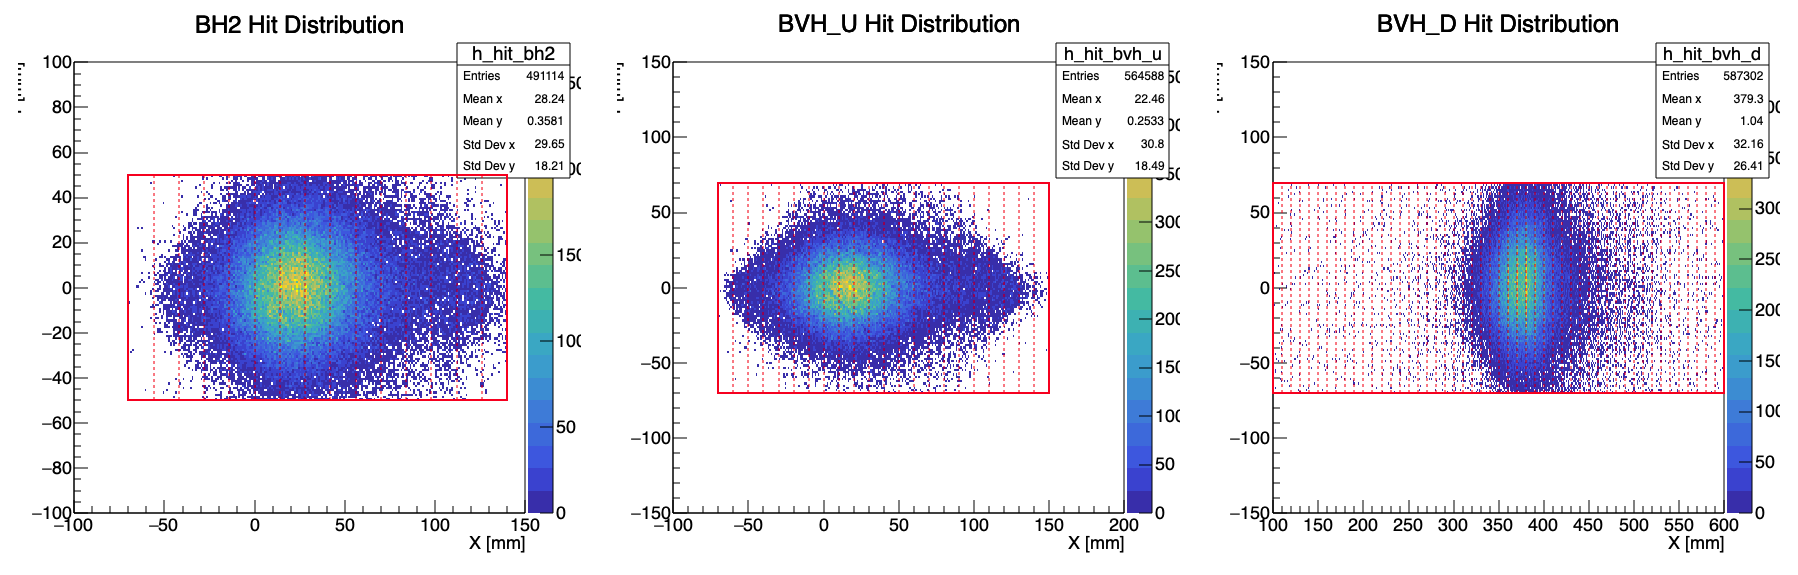
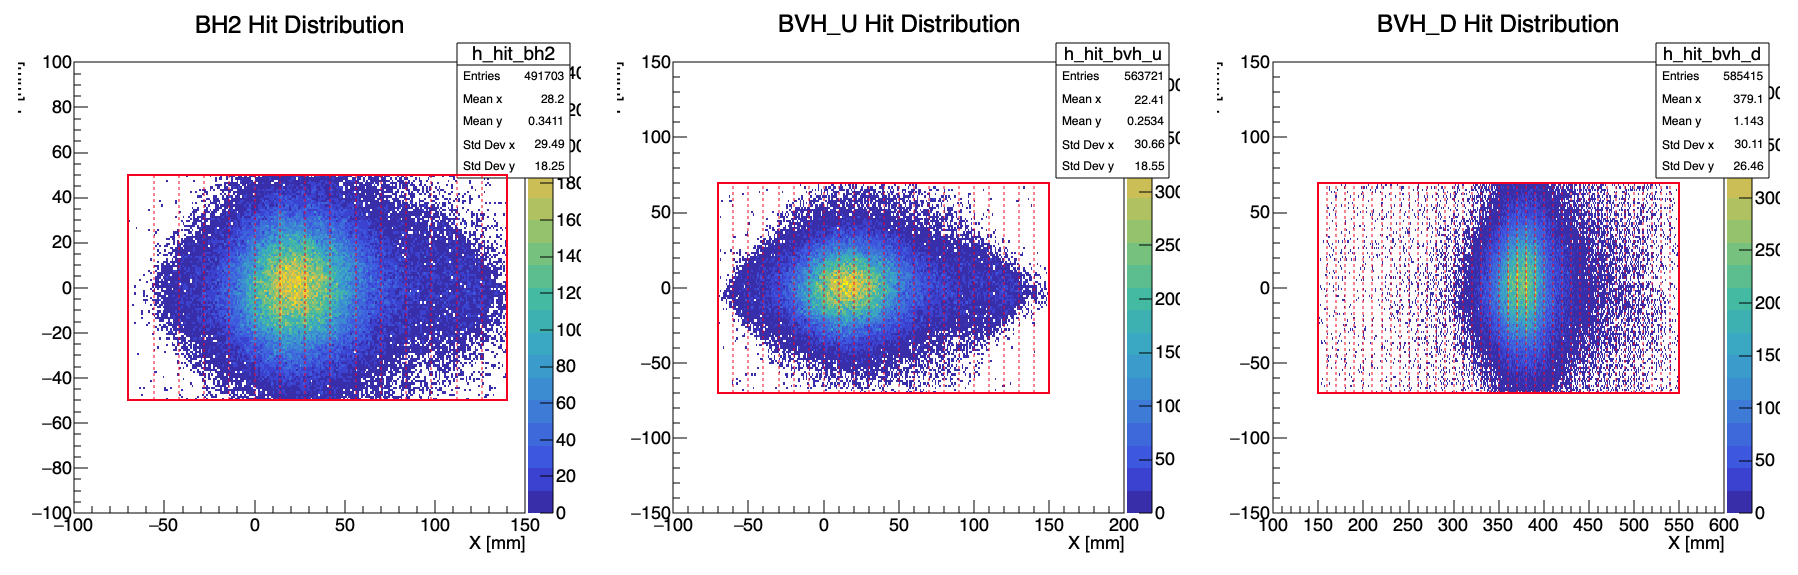
BVH_D po

diff --git a/root/BVH_3D.C b/root/BVH_3D.C
@@ -34,11 +34,14 @@
 #include <algorithm>
 #include <iostream>
 #include <iomanip>
+#include "TInterpreter.h"
+#include "TSystem.h"
+
 
 // -------- Detector Segmentation --------
 static const int N_BH2  = 15; // 0..14
 static const int N_BVHU = 22; // 0..21
-static const int N_BVHD = 32; // 0..31
+static const int N_BVHD = 40; // 0..31
 
 // -------- Helper: unique segment indices passing e-dep cut --------
 static inline void get_unique_hits(const std::vector<TParticle>* v,
@@ -59,12 +62,15 @@ static inline void get_unique_hits(const std::vector<TParticle>* v,
 }
 
 // ================== Main Analysis Function ==================
-void BVH_3D(const char* fname = "E45_BVH4.root",
+void BVH_3D(const char* fname = "E45_segment_40.root",
             double ecutBH2MeV = 0.10,
             double ecutUMeV   = 0.04,
             double ecutDMeV   = 0.04,
             int    event_threshold = 1)
 {
+    gSystem->Load("libPhysics");  // TParticle이 있는 라이브러리
+gInterpreter->GenerateDictionary("vector<TParticle>", "TParticle.h;vector");
+
   // 1) Open file and TTree
   TFile* f = TFile::Open(fname, "READ");
   if(!f || f->IsZombie()){ std::cerr << "[Error] Cannot open file: " << fname << std::endl; return; }
@@ -280,6 +286,6 @@ void BVH_3D(const char* fname = "E45_BVH4.root",
 // ================== Convenience wrapper ==================
 void run_analysis() {
   int event_threshold = 1; // (1) change here to highlight bins >=300 counts
-  BVH_3D("E45_BVH4.root", 0.10, 0.04, 0.04, event_threshold);
+  BVH_3D("E45_segment_40.root", 0.10, 0.04, 0.04, event_threshold);
   std::cout << "[Config] Red boxes mark bins with counts >= " << event_threshold << "." << std::endl;
 }

diff --git a/root/view_detectors_BVH.C b/root/view_detectors_BVH.C
@@ -29,7 +29,7 @@ void draw_bvh_u_overlay(double center_x) { // ★ n=22 로 수정
 }
 
 void draw_bvh_d_overlay(double center_x) { // ★ n=40 유지
-  const double seg_w = 10.0, seg_h = 140.0; const int n_segs = 50;
+  const double seg_w = 10.0, seg_h = 140.0; const int n_segs = 40;
   const double total_w = n_segs*seg_w, start_x = center_x - total_w/2.0;
   auto *outline = new TBox(start_x, -seg_h/2., start_x+total_w, seg_h/2.);
   outline->SetFillStyle(0); outline->SetLineColor(kRed); outline->SetLineWidth(2); outline->Draw("SAME");
@@ -44,7 +44,7 @@ void view_detectors_BVH() {
   gStyle->SetOptStat(1111);
   gStyle->SetPalette(kBird);
 
-  TFile *f = TFile::Open("E45_segment_50.root","READ");
+  TFile *f = TFile::Open("E45_segment_40.root","READ");
   if (!f || f->IsZombie()) { Error("view_detectors_BVH","cannot open file"); return; }
   auto *tree = (TTree*)f->Get("g4hyptpc");
   if (!tree) { Error("view_detectors_BVH","tree g4hyptpc not found"); return; }
